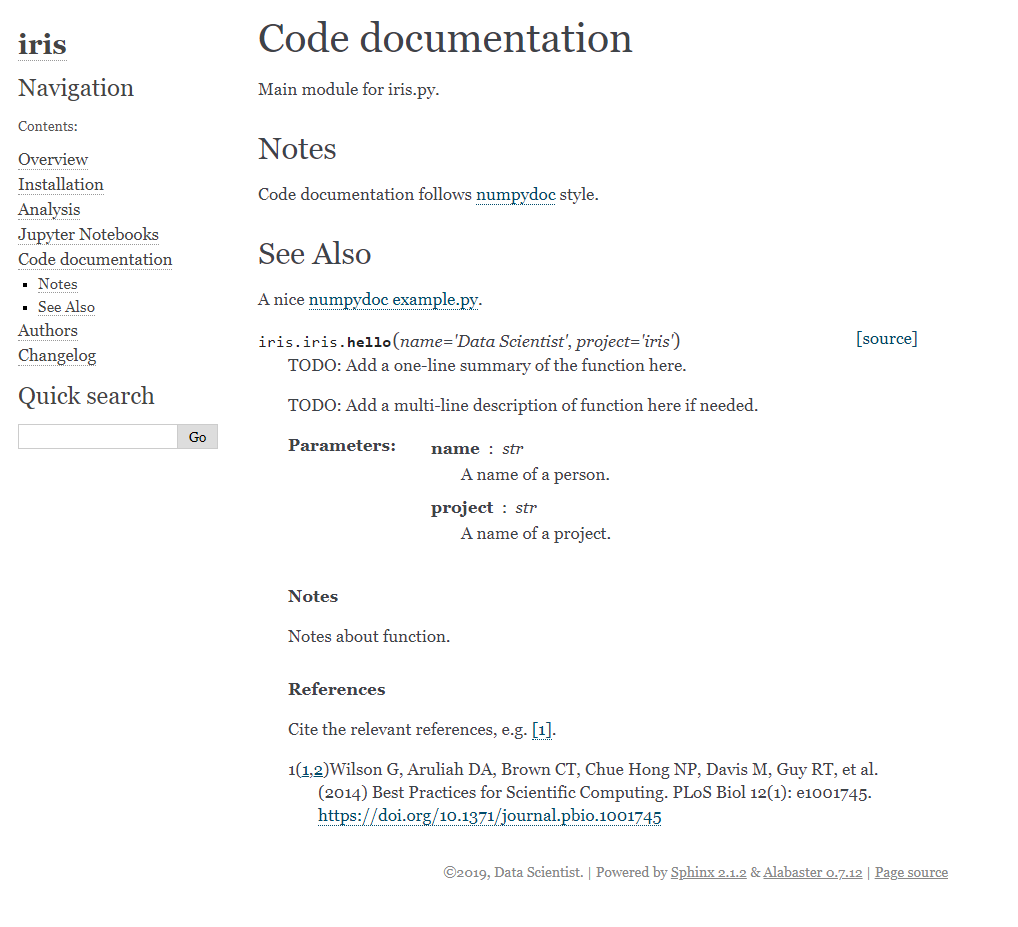
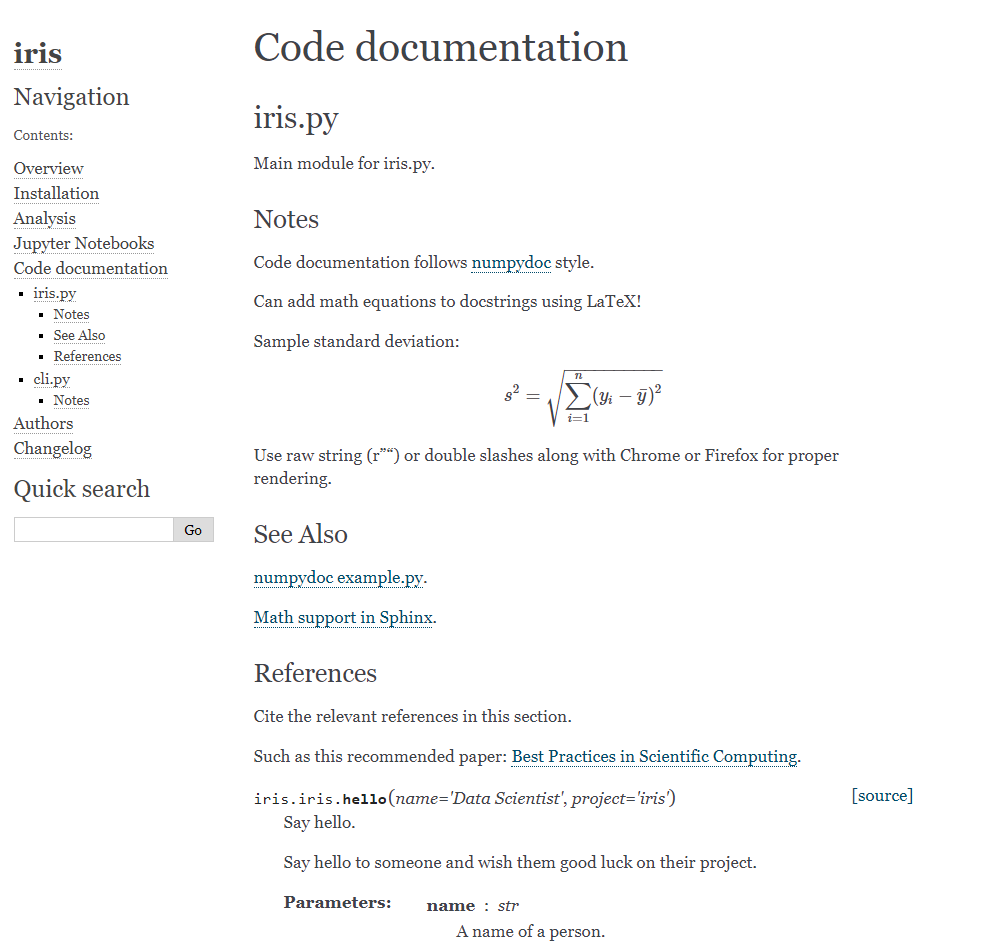
Add analysis command to Makefile, update README

diff --git a/{{cookiecutter.project_slug}}/{{cookiecutter.project_slug}}/{{cookiecutter.project_slug}}.py b/{{cookiecutter.project_slug}}/{{cookiecutter.project_slug}}/{{cookiecutter.project_slug}}.py
@@ -6,17 +6,35 @@ Notes
 -----
 Code documentation follows `numpydoc <https://github.com/numpy/numpy/tree/master/doc/sphinxext>`_ style.
 
+| Can add math equations to docstrings using LaTeX!
+|
+| Sample standard deviation:
+
+.. math:: s^2 = \\sqrt{\\sum_{i=1}^n (y_i - \\bar{y})^2}
+
+Use raw string (r"") or double slashes along with Chrome or Firefox for proper rendering.
+
 See Also
 --------
-A nice `numpydoc example.py <https://numpydoc.readthedocs.io/en/latest/example.html#example>`_.
+`numpydoc example.py <https://numpydoc.readthedocs.io/en/latest/example.html#example>`_.
+
+`Math support in Sphinx <https://shimizukawa-sphinx.readthedocs.io/en/latest/ext/math.html#module-sphinx.ext.mathbase>`_.
+
+References
+----------
+Cite the relevant references in this section.
+
+Such as this recommended paper: `Best Practices in Scientific Computing`_.
+
+.. _Best Practices in Scientific Computing: https://doi.org/10.1371/journal.pbio.1001745
 
 """
 
 
 def hello(name="{{ cookiecutter.author }}", project="{{ cookiecutter.project_slug }}"):
-    """TODO: Add a one-line summary of the function here.
+    """Say hello.
 
-    TODO: Add a multi-line description of function here if needed.
+    Say hello to someone and wish them good luck on their project.
 
     Parameters
     ----------
@@ -27,19 +45,26 @@ def hello(name="{{ cookiecutter.author }}", project="{{ cookiecutter.project_slu
 
     Notes
     -----
-    Notes about function.
-
-    References
-    ----------
-    Cite the relevant references, e.g. [1]_.
-
-    .. [1] Wilson G, Aruliah DA, Brown CT, Chue Hong NP, Davis M, Guy RT, et al. (2014) Best Practices for Scientific Computing. PLoS Biol 12(1): e1001745. https://doi.org/10.1371/journal.pbio.1001745
+    Just a sample function to show docstrings with numpydoc.
 
     """
-
+    print()
     print("Hello {}!".format(name))
     print("Good luck on your {} project!".format(project))
+    print()
+
+
+def main():
+    """Main analysis function.
+
+    Main function for running analysis functions, models, etc.
+    """
+    hello()
+    print("For demo purposes only, just printing output of a simple hello() "
+          "function above.")
+    print("Replace with your analysis functions, models, etc.")
+    print()
 
 
 if __name__ == "__main__":
-    hello()
+    main()

diff --git a/{{cookiecutter.project_slug}}/{{cookiecutter.project_slug}}/cli.py b/{{cookiecutter.project_slug}}/{{cookiecutter.project_slug}}/cli.py
@@ -4,9 +4,8 @@
 
 Notes
 -----
-Click is a nice and simple Python package for creating command line
-interfaces.
-Please see click documentation at http://click.pocoo.org/
+Click is a great Python package for creating nice command line interfaces.
+Please see `Click documentation <http://click.pocoo.org/>`_.
 """
 
 import sys
@@ -16,18 +15,21 @@ import {{cookiecutter.project_slug}}
 
 
 @click.command()
-def main(args=None):
-    """Command line interface for {{ cookiecutter.project_slug }}."""
+@click.option("--verbose", is_flag=True, help="Print detailed results from analysis/model")
+def main(verbose):
+    """Command line interface for iris.
 
-    {{cookiecutter.project_slug}}.hello()
+    Run all analysis, models, and/or main script from a command line interface.
+    """
+    click.echo("Running analysis from a Click command line interface")
+    iris.main()
+    click.echo("Click allows you to easily add various commands and options "
+               "as you see fit.")
     click.echo()
-    click.echo("The following are automatically setup to help you get up and "
-               "running on your project quickly:")
-    click.echo("  * A Click command line interface in {{ cookiecutter.project_slug}}.cli.main")
-    click.echo("  * Pytest suite in the `tests` directory.")
-    click.echo("  * Sphinx documentation in the `docs` directory.")
-    click.echo("  * Makefile for easy running of tests and generating project documentation.")
-    click.echo("  * Template README.md file.")
+
+    if verbose:
+        click.echo("Verbose mode is on.")
+        click.echo("Can print more detailed results from your analysis/model.")
 
     return 0
 

diff --git a/README.rst b/README.rst
@@ -7,7 +7,8 @@
 Features
 --------
 
-* Simple, clear, and structured Python_ project template
+* Simple, clear, and structured Python_ project template for data science projects
+* Promotes `Best Practices in Scientific Computing`_
 * Initial Jupyter_ set up for data exploration
 * Code testing set up with pytest_
 * Initial project and code documentation website set up with Sphinx_
@@ -66,7 +67,11 @@ The followings is a sample project layout along with a description of all the co
 Example
 -------
 The following is an example of a typical Data Scientist creating a cookiecutter-pyproj_ template for a
-machine learning project using the `Iris flower data set`_ in just 2 steps.
+machine learning project using the `Iris flower data set`_ and exploring the features provided in
+the template project.
+
+Creating a project
+~~~~~~~~~~~~~~~~~~
 
 1. Run the cookiecutter program with the cookiecutter-pyproj_ template::
 
@@ -81,14 +86,44 @@ machine learning project using the `Iris flower data set`_ in just 2 steps.
     project_description [A short description of the project]: Iris is a machine learning project to classify iris flowers using the Iris flower data set.
     date [2019-08-15]: <Enter>
 
-Now, the Data Scientist can view the contents of the template project::
+Now, project template is complete and the Data Scientist can view and start
+editing the contents of the template project::
 
     $ tree iris
 
 .. image:: images/project-tree.png
     :alt: Screenshot of template project using tree command
 
-and, run tests using top-level Makefile::
+Running analysis, model, etc.
+~~~~~~~~~~~~~~~~~~~~~~~~~~~~~
+The Data Scientist can run analysis, model, etc. using top-level Makefile::
+
+   $ cd iris
+   $ make analysis
+
+.. image:: images/make-analysis.png
+    :alt: Screenshot of make analysis output
+
+or, run analysis using python directly::
+
+   $ cd iris
+   $ python iris.py
+
+.. image:: images/python-analysis.png
+    :alt: Screenshot of python analysis output
+
+or, run analysis using Click_ command line interface directly::
+
+   $ cd iris
+   $ python cli.py --verbose
+
+.. image:: images/click-analysis.png
+    :alt: Screenshot of click analysis output
+
+
+Running tests
+~~~~~~~~~~~~~
+The Data Scientist can run tests using top-level Makefile::
 
    $ cd iris
    $ make tests
@@ -101,11 +136,14 @@ or, run tests using pytest_ directly::
 .. image:: images/pytest-output.png
     :alt: Screenshot of pytest output
 
-and, make the projects website and code documentation using top-level Makefile::
+
+Generate project documentation
+~~~~~~~~~~~~~~~~~~~~~~~~~~~~~~
+The Data Scientist can make the project website and code documentation using top-level Makefile::
 
    $ make docs
 
-or, make the projects website and code documentation using Sphinx directory::
+or, make the project website and code documentation using Sphinx directory::
 
    $ cd docs
    $ make html
@@ -132,7 +170,6 @@ Screenshot of an example Jupyter notebook plotting the iris data set embedded in
 .. image:: images/project-documentation-iris-plot.png
     :alt: Screenshot of an example jupyter notebook from project documentation
 
-
 | With the boilerplate project framework and structure already finished,
 | the Data Scientist can now start doing data science, the fun part!
 
@@ -155,6 +192,7 @@ Acknowledgements
 Thank you Cookiecutter_!
 
 
+.. _Best Practices in Scientific Computing: https://doi.org/10.1371/journal.pbio.1001745
 .. _Cookiecutter: https://github.com/cookiecutter/cookiecutter
 .. _Click: https://click.palletsprojects.com/en/7.x/
 .. _Python: https://www.python.org/

diff --git a/{{cookiecutter.project_slug}}/docs/code.rst b/{{cookiecutter.project_slug}}/docs/code.rst
@@ -1,5 +1,12 @@
 Code documentation
 ==================
 
+{{ cookiecutter.project_slug }}.py
+----------------------------------
 .. automodule:: {{ cookiecutter.project_slug }}.{{ cookiecutter.project_slug }}
-   :members:
+    :members:
+
+cli.py
+------
+.. automodule:: {{ cookiecutter.project_slug }}.cli
+    :members:
